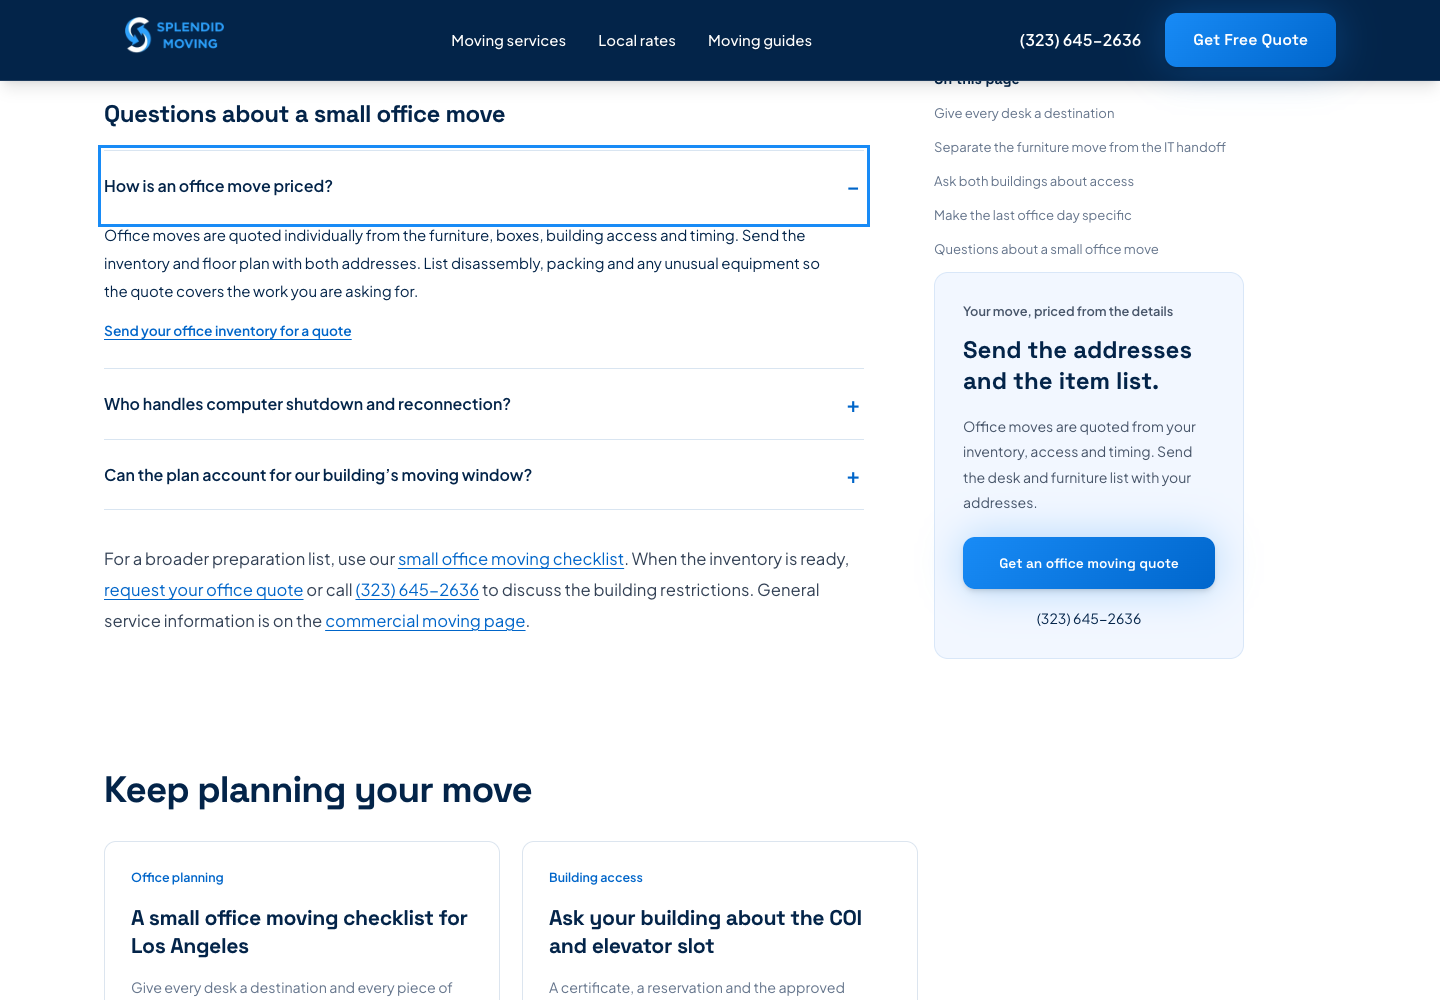
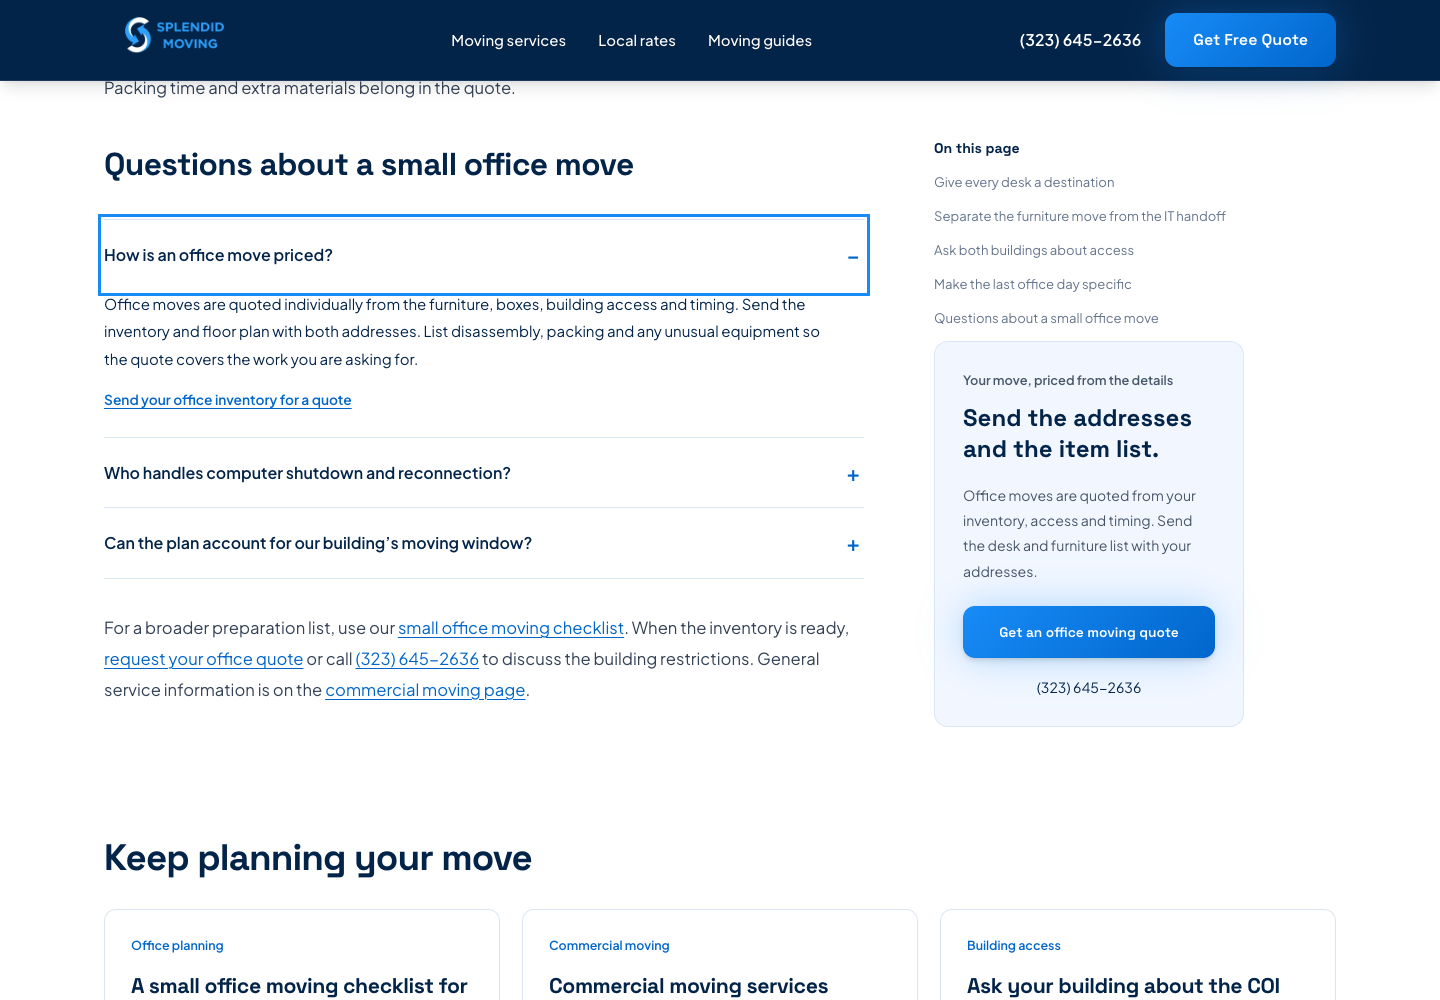
Keep one heading above each service question panel
Render the new custom tags as standalone Markdown HTML blocks so their panels reuse the original section headings. Reproduced duplicate headings with a regression test, then verified 67 tests and desktop/mobile keyboard review.

diff --git a/tests/seo.test.js b/tests/seo.test.js
@@ -85,3 +85,17 @@ test('legacy page redirects retain relevant replacements', () => {
         assert.ok(config.redirects.some(rule => rule.source === source && rule.destination === destination && rule.permanent), source);
     }
 });
+
+
+test('service question panels have one visible heading and a valid section label', () => {
+    for (const slug of ['apartment-movers-los-angeles', 'small-office-movers-los-angeles']) {
+        const $ = load(readFileSync(`dist/${slug}.html`, 'utf8'));
+        const panel = $('.guide-panel--questions');
+        const label = panel.attr('aria-labelledby');
+        assert.equal(panel.length, 1);
+        assert.ok(label && $(`[id="${label}"]`).length === 1, `${slug} needs a unique question heading`);
+        const title = $(`[id="${label}"]`).text();
+        assert.equal($('h2').filter((_, heading) => $(heading).text() === title).length, 1, `${slug} repeats its question heading`);
+        assert.ok(!panel.children('h2').length, `${slug} must use the existing section heading`);
+    }
+});

diff --git a/README.md b/README.md
@@ -171,7 +171,7 @@ Release `36880db` was verified live: all 18 HTML pages and seven changed deliver
 
 The existing lower homepage section now links directly to all four focused services. The moving-cost guide is linked from the pricing note, with EN/ES/KO text. Local moving points to packing help; apartment, stair, kitchen and office guides have contextual links to the relevant focused services. Apartment and small-office pages include native expandable answers about scope, minimums, access and preparation. Their copy uses the verified business context and makes no new timing or fee guarantees.
 
-The related-page resolver now includes the older parent services. Commercial/long-distance cards were previously missing because those routes were outside the new-content catalog. A regression check reproduces and prevents that missing navigation; invalid configured relationships now fail the build. All 66 automated checks and the 18-page validator pass. Browser checks cover 16 affected page/viewport combinations and six restored-service link cases, including keyboard and touch disclosure use. See `design/service-discovery/README.md` and its review files.
+The related-page resolver now includes the older parent services. Commercial/long-distance cards were previously missing because those routes were outside the new-content catalog. A regression check reproduces and prevents that missing navigation; invalid configured relationships now fail the build. All 67 automated checks and the 18-page validator pass. Browser checks cover 16 affected page/viewport combinations and six restored-service link cases, including keyboard and touch disclosure use. See `design/service-discovery/README.md` and its review files.
 
 Homepage text contrast and review-source icon semantics were corrected. The local Lighthouse accessibility score is 100 versus the saved November 9 score of 92; SEO checks remain 100. These are technical checks, not ranking gains. Original baselines and rank evidence are unchanged, and no paid Treg endpoints or recurring collection were used for this round.
 

diff --git a/SEO_PLAN.md b/SEO_PLAN.md
@@ -87,6 +87,6 @@ Production release `36880db` passed 18-page/7-asset parity checks and live scree
 
 Focused implementation: expose all four service intents from the existing homepage reading section, keep the cost guide in the pricing context, link the relevant guides to their services, and add factual native question panels to apartment and small-office pages. A catalog-boundary bug silently dropped related cards for old parent service URLs; these now resolve, and unknown configured relationships fail the build. Accessibility fixes cover light-background link/label contrast, footer copyright contrast and review-source icon roles.
 
-Validation: 66 passing tests, all 18 public pages passing metadata/link/schema validation, 16 responsive affected-page checks and six parent-link browser checks. A missing-related-service regression was reproduced before the fix. The local homepage Lighthouse accessibility and SEO checks score 100; the saved earlier accessibility score was 92. Production verification follows the Git release.
+Validation: 67 passing tests, all 18 public pages passing metadata/link/schema validation, 16 responsive affected-page checks and six parent-link browser checks. A missing-related-service regression was reproduced before the fix. The local homepage Lighthouse accessibility and SEO checks score 100; the saved earlier accessibility score was 92. Production verification follows the Git release.
 
 Fresh first-party evidence: GA4 reports three saved-quote lead events in November 9–10, with one attributed to an Organic Search session landing on `/`. This does not verify booked moves or establish that the new pages caused that enquiry. Twelve new pages have impressions but zero recorded clicks in the returned final Search Console window. Its property-wide average remains inappropriate as a fixed-keyword rank. Google’s fresh homepage inspections select the HTTPS apex URL as canonical for both inspected variants. No new paid ranking snapshot or background schedule was created.

diff --git a/design/service-discovery/README.md b/design/service-discovery/README.md
@@ -11,3 +11,5 @@ A related-page lookup previously searched only the new content catalog, silently
 The navy/blue palette and existing typography remain. Small blue labels and links on light backgrounds have stronger contrast; the footer copyright is lighter on navy; labeled review-source icons have the appropriate image role. The local homepage accessibility and SEO audits both score 100. Those audit scores are not search positions.
 
 `review/` contains desktop/mobile comparisons, 16 page/viewport checks including native disclosure interactions, six restored-link checks, and the local audit. Production verification is recorded after the Git deployment. Ranking evidence and private first-party exports remain separate under `seo/`.
+
+Live review caught repeated FAQ headings caused by a Markdown paragraph around the new custom tags. The two new tags now use standalone HTML blocks, allowing the shared renderer to keep one heading and its accessible label. A regression test reproduced the duplicate before the correction.

diff --git a/content/landing/small-office-movers-los-angeles.md b/content/landing/small-office-movers-los-angeles.md
@@ -32,6 +32,7 @@ If you want packing help, identify the cupboards, shared equipment and individua
 
 ## Questions about a small office move
 
-<guide-panel name="office-questions"></guide-panel>
+<guide-panel name="office-questions">
+</guide-panel>
 
 For a broader preparation list, use our [small office moving checklist](/blog/office-moving-checklist-los-angeles). When the inventory is ready, [request your office quote](/quote) or call [(323) 645-2636](tel:+13236452636) to discuss the building restrictions. General service information is on the [commercial moving page](/commercial-moving).

diff --git a/content/landing/apartment-movers-los-angeles.md b/content/landing/apartment-movers-los-angeles.md
@@ -30,6 +30,7 @@ Keep both approvals with your moving details. Include any limits on moving hours
 
 ## Questions about your apartment move
 
-<guide-panel name="apartment-questions"></guide-panel>
+<guide-panel name="apartment-questions">
+</guide-panel>
 
 For your quote, send the two addresses, your preferred date, apartment size, item list and access notes. You can [request an apartment moving quote](/quote) online or call [(323) 645-2636](tel:+13236452636) to discuss an awkward item or building requirement.
